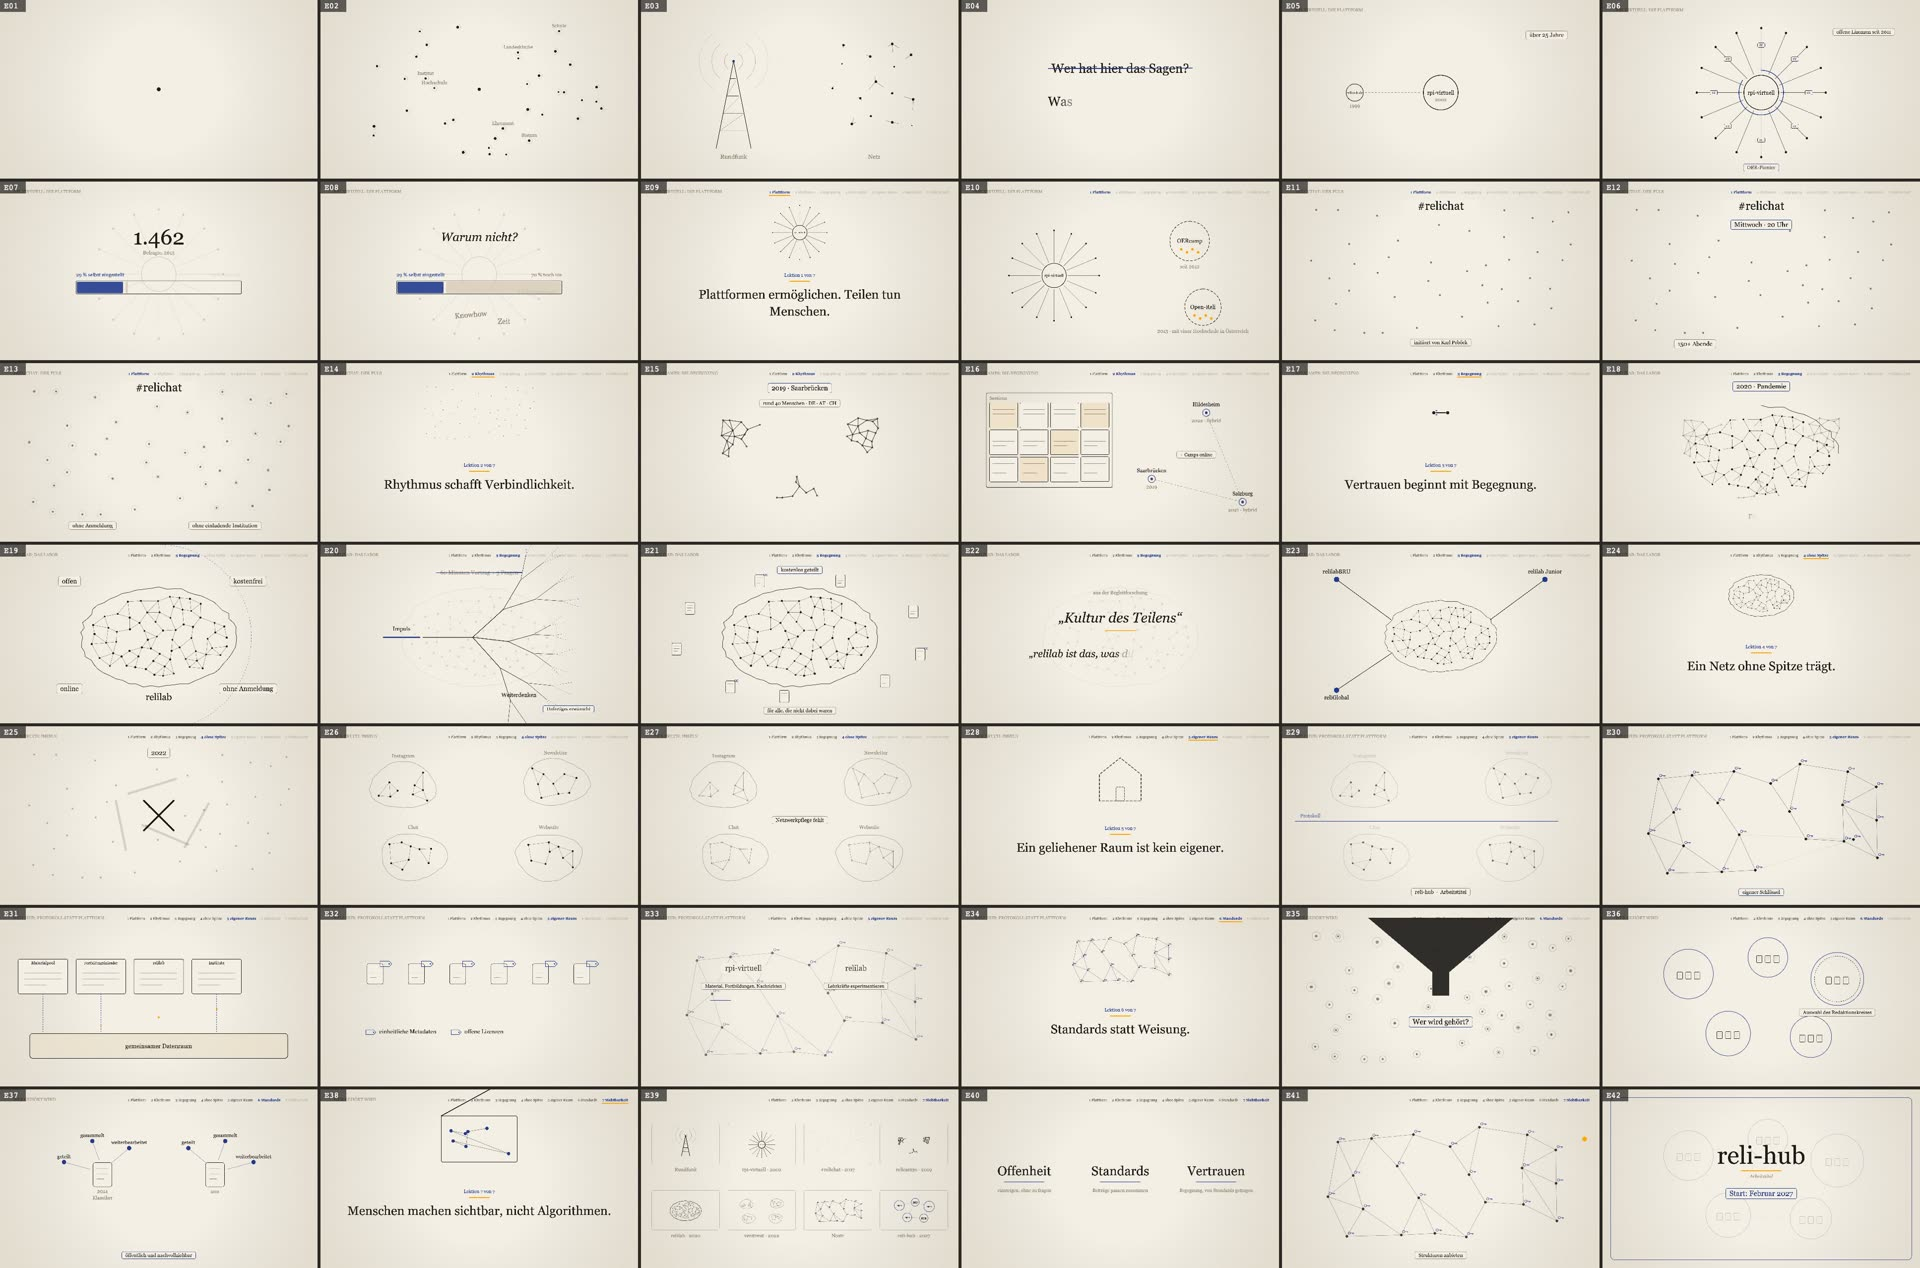
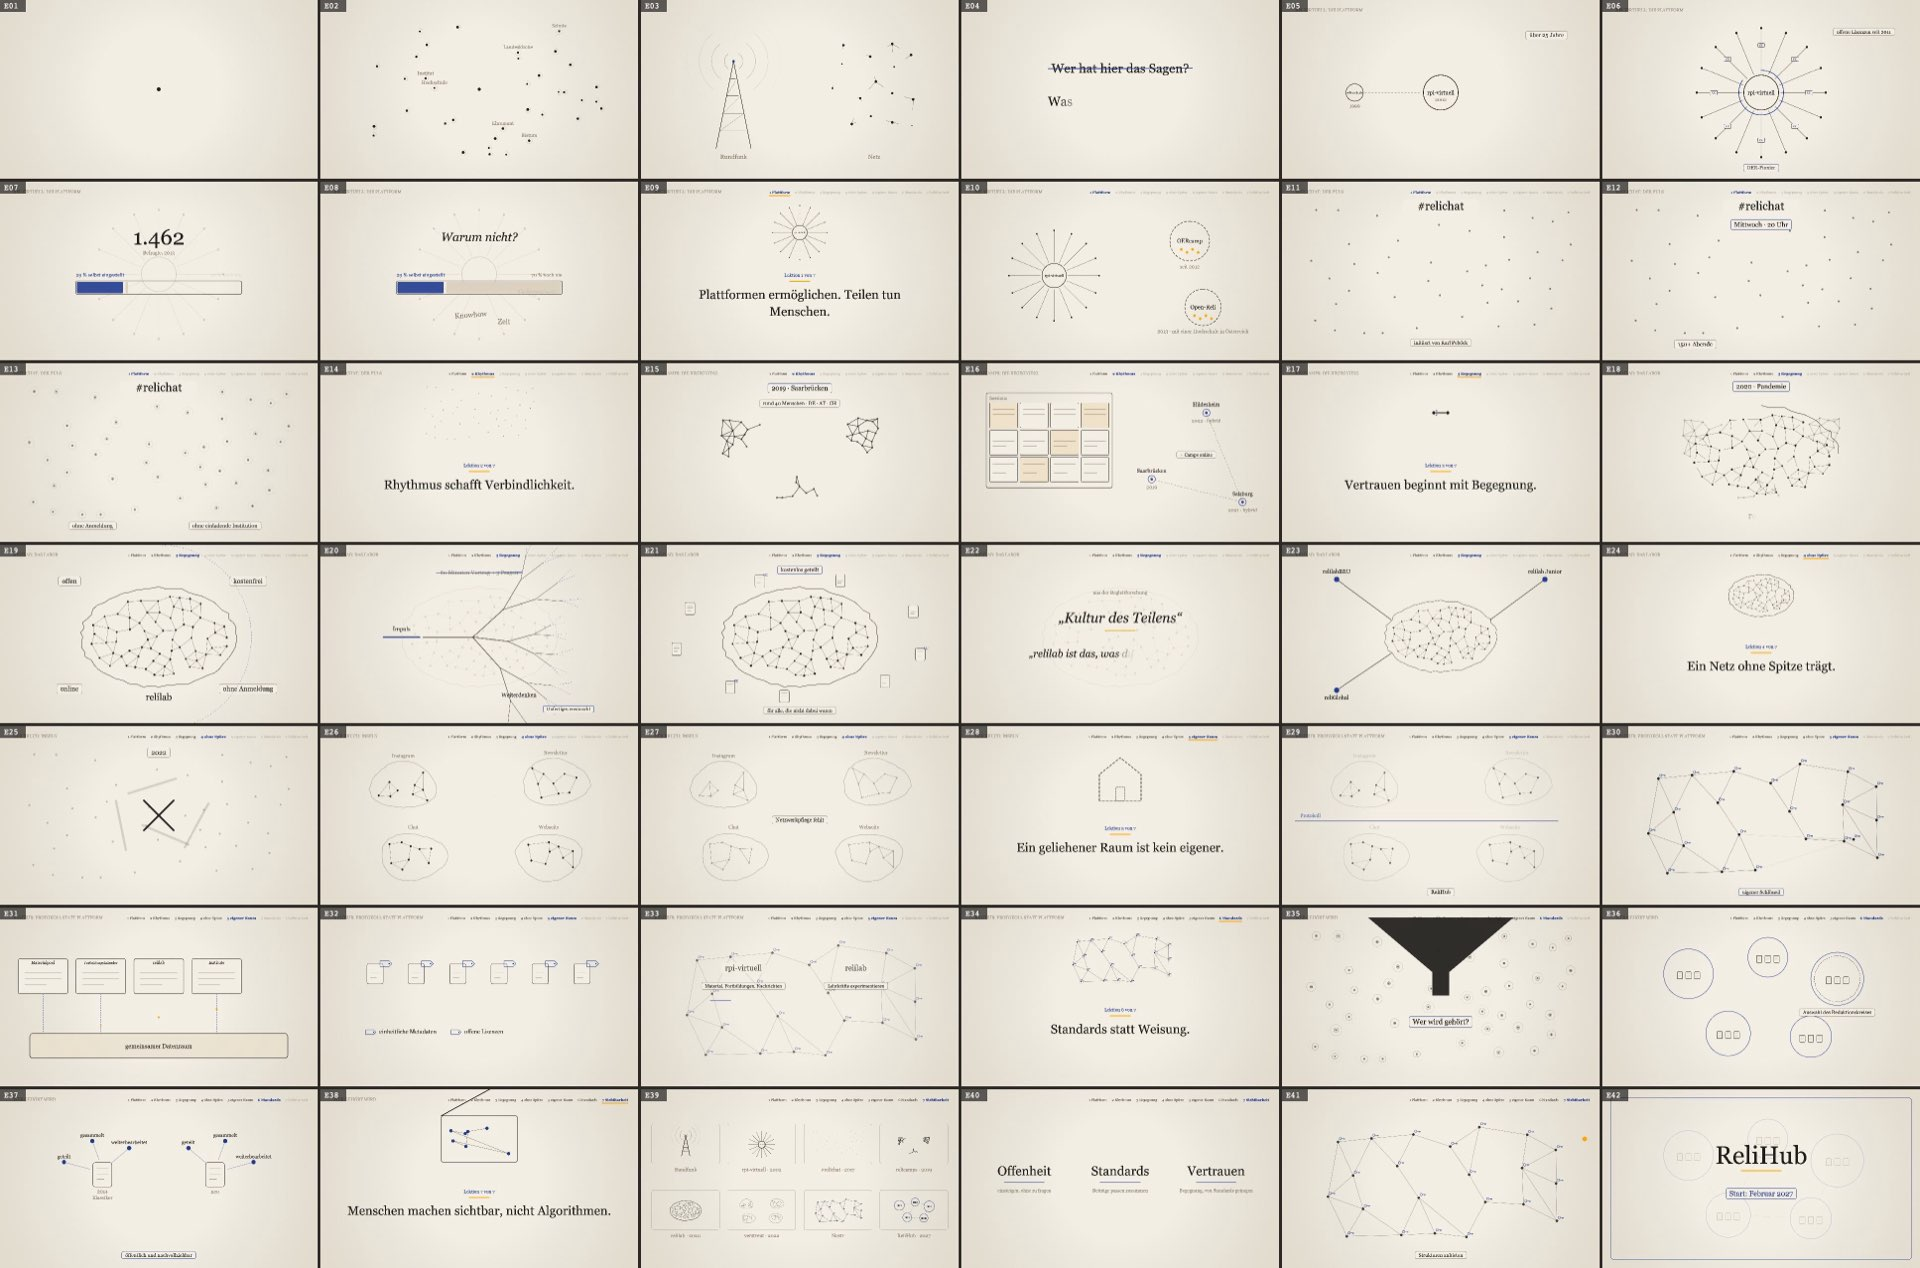
CollaborAID-Video: ReliHub statt Arbeitstitel reli-hub
Name im Bild (E29, E39, E42), in Sprechtext, Untertiteln, Kapiteln,
Vorschaubild, Kontaktbogen und Vimeo-Angaben umgestellt. Tonspur und
Zeitleiste bleiben unverändert, weil der Abgleich Wörter normalisiert.

diff --git a/Events/workshops/2026-11-14-CollaborAID-Panel/video/player/szenen.js b/Events/workshops/2026-11-14-CollaborAID-Panel/video/player/szenen.js
@@ -468,7 +468,7 @@ const E28 = mitMotiv((g, z) => {
   g.rechteck(900, 700, 120, 200, 6, aus(z.ab(1.5, 1)), { breite: 5, strich: [12, 10], alpha: q });
 });
 
-// ---------- Szene 6 · reli-hub: Protokoll statt Plattform ----------
+// ---------- Szene 6 · ReliHub: Protokoll statt Plattform ----------
 
 function E29(g, z) {
   const lp = z.abWort('Protokoll', 2.2, -0.4);
@@ -477,7 +477,7 @@ function E29(g, z) {
   g.text('Protokoll', 110, 552, { groesse: 30, alpha: lp, farbe: FARBEN.akzent });
   const n = z.abWort('Nostr', 1.2, -0.2);
   kasten(g, 'Nostr', 1720, 575, n, { groesse: 36, rahmen: FARBEN.akzent, farbe: FARBEN.akzent });
-  kasten(g, 'reli-hub  ·  Arbeitstitel', CX, 1010, z.abWort('reli-hub', 0.8), { groesse: 32 });
+  kasten(g, 'ReliHub', CX, 1010, z.abWort('ReliHub', 0.8), { groesse: 32 });
   INSELN.forEach((ins) => {
     const oben = ins.cy < 575;
     g.linie(ins.cx, oben ? ins.cy + 140 : ins.cy - 140, ins.cx, 575, sanft(n), { breite: 2.5, farbe: FARBEN.akzent, alpha: 0.8 });
@@ -659,7 +659,7 @@ function E38(g, z) {
 
 const SPUR = [
   ['Sendemast', 'Rundfunk'], ['Stern', 'rpi-virtuell · 2002'], ['Puls', '#relichat · 2017'], ['Gruppen', 'relicamps · 2019'],
-  ['Labor', 'relilab · 2020'], ['Inseln', 'verstreut · 2022'], ['Protokoll', 'Nostr'], ['Kreise', 'reli-hub · 2027'],
+  ['Labor', 'relilab · 2020'], ['Inseln', 'verstreut · 2022'], ['Protokoll', 'Nostr'], ['Kreise', 'ReliHub · 2027'],
 ];
 
 function E39(g, z) {
@@ -699,9 +699,8 @@ function E41(g, z) {
 function E42(g, z) {
   g.mit(0.25, () => kreise(g, z.t, { material: 1 }));
   g.rechteck(50, 50, W - 100, H - 100, 22, sanft(z.ab(0.2, 2.5)), { breite: 3, farbe: FARBEN.akzent, alpha: 0.8 });
-  g.schreiben('reli-hub', CX, 450, z.abWort('reli-hub', 1.4, -0.3), { groesse: 150, align: 'center' });
-  g.linie(CX - 120, 492, CX + 120, 492, sanft(z.abWort('reli-hub', 0.8, 0.9)), { breite: 6, farbe: FARBEN.orange });
-  g.text('Arbeitstitel', CX, 535, { groesse: 28, align: 'center', kursiv: true, farbe: FARBEN.leise, alpha: z.abWort('reli-hub', 0.8, 1.0) });
+  g.schreiben('ReliHub', CX, 450, z.abWort('ReliHub', 1.4, -0.3), { groesse: 150, align: 'center' });
+  g.linie(CX - 120, 492, CX + 120, 492, sanft(z.abWort('ReliHub', 0.8, 0.9)), { breite: 6, farbe: FARBEN.orange });
   kasten(g, 'Start: Februar 2027', CX, 640, z.abWort('Februar', 0.9), { groesse: 44, rahmen: FARBEN.akzent, farbe: FARBEN.akzent });
   g.schreiben('Danke.', CX, 820, z.abWort('entsteht', 1.4, 0.8), { groesse: 70, align: 'center', kursiv: true });
 }

diff --git a/Events/workshops/2026-11-14-CollaborAID-Panel/video/player/index.html b/Events/workshops/2026-11-14-CollaborAID-Panel/video/player/index.html
@@ -2,7 +2,7 @@
 <html lang="de">
 <head>
 <meta charset="utf-8">
-<title>reli-hub · Video-Vorschau</title>
+<title>ReliHub · Video-Vorschau</title>
 <meta name="viewport" content="width=device-width, initial-scale=1">
 <link rel="stylesheet" href="player.css">
 </head>

diff --git a/Events/workshops/2026-11-14-CollaborAID-Panel/sprechtext.md b/Events/workshops/2026-11-14-CollaborAID-Panel/sprechtext.md
@@ -1,4 +1,4 @@
-# Sprechtext: Wie der reli-hub entstanden ist
+# Sprechtext: Wie der ReliHub entstanden ist
 
 Impuls für das Panel „Zusammenarbeit für bessere Bildung(smaterialien): Was wir von
 Bildungsnetzwerken lernen können“, CollaborAID, 14.11.2026, 10:30–11:20 Uhr.
@@ -210,13 +210,13 @@ Wir haben gemerkt: Ohne Netzwerkpflege läuft ein Labor nicht einfach weiter. Un
 
 Fünfte Lektion: Wer seinen öffentlichen Raum auf der Plattform eines anderen baut, kann ihn verlieren.
 
-## Szene 6 · reli-hub: Protokoll statt Plattform
+## Szene 6 · ReliHub: Protokoll statt Plattform
 
 ### E29 · hub
 
 > bild: Die vier Inseln bleiben, wie sie sind. Unter ihnen zeichnet sich eine feine, durchgehende Linie: „Protokoll“.
 
-Deshalb bauen wir jetzt keine neue Plattform. Wir bauen den reli-hub auf einem offenen Protokoll. Es heißt Nostr.
+Deshalb bauen wir jetzt keine neue Plattform. Wir bauen den ReliHub auf einem offenen Protokoll. Es heißt Nostr.
 
 ### E30 · hub
 
@@ -240,7 +240,7 @@ Was das zusammenhält, sind gemeinsame Standards: einheitlich beschriebene Metad
 
 > bild: Die Wortmarken „rpi-virtuell“ und „relilab“ werden kleiner und treten zurück. Unter rpi-virtuell: Material, Fortbildungen, Nachrichten der Institute. Unter relilab: Lehrkräfte experimentieren. Beide stehen auf einer Linie. Das Netz darunter bleibt hell.
 
-Die Marken treten dabei zurück. rpi-virtuell bündelt, was die Institute anbieten: Material, Fortbildungen, Nachrichten. Das relilab ist der Raum, in dem Lehrkräfte selbst experimentieren. Im reli-hub stehen beide nebeneinander, keines über dem anderen.
+Die Marken treten dabei zurück. rpi-virtuell bündelt, was die Institute anbieten: Material, Fortbildungen, Nachrichten. Das relilab ist der Raum, in dem Lehrkräfte selbst experimentieren. Im ReliHub stehen beide nebeneinander, keines über dem anderen.
 
 ### E34 · lernsatz
 
@@ -260,7 +260,7 @@ Wenn alle senden können, kommt die nächste Frage. Es geht nicht mehr darum, we
 
 > bild: Der Trichter löst sich auf. Aus dem Netz heben sich kleine Kreise hervor: Communities. Jede holt einzelne Materialien zu sich, Linien verbinden die Kreise untereinander.
 
-Im reli-hub bestimmt das kein Konzern und kein einzelnes Institut. Jede Community zeigt, was mit ihr geteilt wurde, und ein Redaktionskreis kann daraus eine Auswahl zusammenstellen. Gefunden wird über Menschen, denen man vertraut.
+Im ReliHub bestimmt das kein Konzern und kein einzelnes Institut. Jede Community zeigt, was mit ihr geteilt wurde, und ein Redaktionskreis kann daraus eine Auswahl zusammenstellen. Gefunden wird über Menschen, denen man vertraut.
 
 ### E37 · gehoert
 
@@ -296,9 +296,9 @@ Und eine ehrliche Grenze: Strukturen können wir anbieten. Ob sie lebendig werde
 
 ### E42 · schluss
 
-> bild: „reli-hub“ und „Februar 2027“. Dann: „Danke.“
+> bild: „ReliHub“ und „Februar 2027“. Dann: „Danke.“
 
-Der reli-hub geht im Februar 2027 an den Start. Ich bin gespannt, was daraus entsteht.
+Der ReliHub geht im Februar 2027 an den Start. Ich bin gespannt, was daraus entsteht.
 
 ---
 

diff --git a/Events/workshops/2026-11-14-CollaborAID-Panel/README.md b/Events/workshops/2026-11-14-CollaborAID-Panel/README.md
@@ -8,7 +8,7 @@ Der Ordner enthält alles, um das Video nachzubauen oder mit einem eigenen Thema
 - **Anlass:** Impuls im Panel „Zusammenarbeit für bessere Bildung(smaterialien): Was wir von
   Bildungsnetzwerken lernen können“, CollaborAID, 14.11.2026
 - **Inhalt:** Wie aus rpi-virtuell, dem #relichat, den relicamps und dem relilab der Entwurf
-  eines gemeinsamen Community-Hubs (Arbeitstitel „reli-hub“) entstanden ist, und was das über
+  eines gemeinsamen Community-Hubs, des ReliHub, entstanden ist, und was das über
   Zusammenarbeit über Institutionsgrenzen hinweg lehrt
 - **Lizenz:** Video, Texte, Bilder und Code in diesem Ordner stehen unter
   [CC BY 4.0](https://creativecommons.org/licenses/by/4.0/deed.de).
@@ -61,7 +61,9 @@ alle Entscheidungen lagen beim Autor.
    Fehler, bevor jemand sie hören musste. Nach einer Rückmelderunde im Team kamen hinzu: eine
    mitlaufende Lektionsleiste, ruhigere Animationen, die Projektfarben, ein als Arbeitstitel
    markierter Name und genauere Aussagen zur Lizenzierung. Drei geänderte Absätze wurden
-   nachgesprochen und automatisch eingesetzt.
+   nachgesprochen und automatisch eingesetzt. Als der Name feststand, wurde aus dem
+   Arbeitstitel „reli-hub“ im Bild und in den Untertiteln „ReliHub“; weil Wörter beim Abgleich
+   normalisiert werden, blieben Tonspur und Zeitleiste dabei unverändert.
 8. **Veröffentlichen.** Aus der Zeitleiste entstehen Untertitel und Kapitelmarken, aus der
    Übersichtsszene das Vorschaubild.
 

diff --git a/Events/workshops/2026-11-14-CollaborAID-Panel/veroeffentlichung/vimeo.md b/Events/workshops/2026-11-14-CollaborAID-Panel/veroeffentlichung/vimeo.md
@@ -20,14 +20,14 @@ Kapitel
 3:03 relicamps: die Begegnung
 3:51 relilab: das Labor
 5:02 Der Bruch: Inseln
-5:49 reli-hub: Protokoll statt Plattform
+5:49 ReliHub: Protokoll statt Plattform
 7:24 Wer gehört wird
 8:26 Was trägt
 
 Machart: Die Animationen sind vollständig als Programmcode entstanden, gebaut mit dem KI-Agenten Claude Code; Sprechtext und Stimme stammen vom Autor. Making-of und Anleitung zum Nachmachen mit eigenem Thema:
 https://git.rpi-virtuell.de/Comenius-Institut/FOERBICO_und_rpi-virtuell/src/branch/main/Events/workshops/2026-11-14-CollaborAID-Panel
 
-„reli-hub“ ist ein Arbeitstitel für den Community-Hub, den das Projekt FOERBICO entwickelt.
+Der ReliHub ist der Community-Hub, den das Projekt FOERBICO entwickelt. Er wird auf der FOERBICO-Abschlusstagung „Offen. Vernetzt. Zukunft“ am 2. und 3. Februar 2027 in Frankfurt vorgestellt: https://oer.community/tagungen/
 
 Ein Beitrag aus dem Projekt FOERBICO – Förderung offener Bildungspraktiken in religionsbezogenen Communities durch die Entwicklung eines koordinierten OER-Ökosystems.
 
